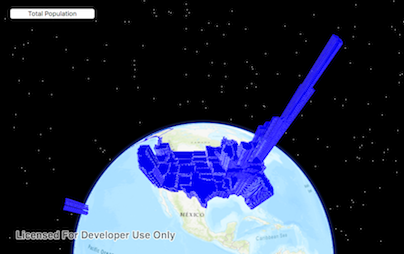
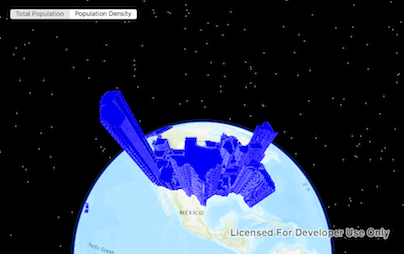
use segmented control instead of button

diff --git a/arcgis-runtime-samples-macos/Scenes/Feature layer extrusion/FeatureLayerExtrusionViewController.swift b/arcgis-runtime-samples-macos/Scenes/Feature layer extrusion/FeatureLayerExtrusionViewController.swift
@@ -18,14 +18,13 @@ import ArcGIS
 
 class FeatureLayerExtrusionViewController: NSViewController {
 
-    @IBOutlet weak var extrusionButton: NSButton!
+    @IBOutlet weak var extrusionControl: NSSegmentedControl!
     @IBOutlet weak var sceneView: AGSSceneView!
     // initialize scene with the topographic basemap
     let scene = AGSScene(basemapType: .topographic)
 
     // US census data feature service
     let statesService = "https://sampleserver6.arcgisonline.com/arcgis/rest/services/Census/MapServer/3"
-    var showPopulation = true
     var renderer : AGSRenderer?
     
     override func viewDidLoad() {
@@ -46,9 +45,10 @@ class FeatureLayerExtrusionViewController: NSViewController {
         // need to set an extrusion type, BASE HEIGHT extrudes each point from the feature individually
         renderer?.sceneProperties?.extrusionMode = .baseHeight
         
-        // call the extrusion button action to set the extrusion
-        extrusionAction(self)
-        
+        // set the extrusion to total population
+        renderer?.sceneProperties?.extrusionExpression = "[POP2007]/ 10"
+        extrusionControl.selectedSegment = 0
+
         // set the renderer on the layer and add the layer to the scene
         layer.renderer = renderer
         self.scene.operationalLayers.add(layer)
@@ -67,17 +67,16 @@ class FeatureLayerExtrusionViewController: NSViewController {
         }
     }
 
-    @IBAction func extrusionAction(_ sender: Any) {
+    @IBAction func extrusionAction(_ sender: NSSegmentedControl) {
         // button action for extruding by total population or by population density
-        if showPopulation {
-            renderer?.sceneProperties?.extrusionExpression = "[POP07_SQMI] * 5000"
-            extrusionButton.title = "Total Population"
-        }
-        else {
+        switch sender.selectedSegment {
+        case 0:
             renderer?.sceneProperties?.extrusionExpression = "[POP2007]/ 10"
-            extrusionButton.title = "Population Density"
+        case 1:
+            renderer?.sceneProperties?.extrusionExpression = "[POP07_SQMI] * 5000"
+        default:
+            renderer?.sceneProperties?.extrusionExpression = ""
         }
-        showPopulation = !showPopulation
     }
     
 }
